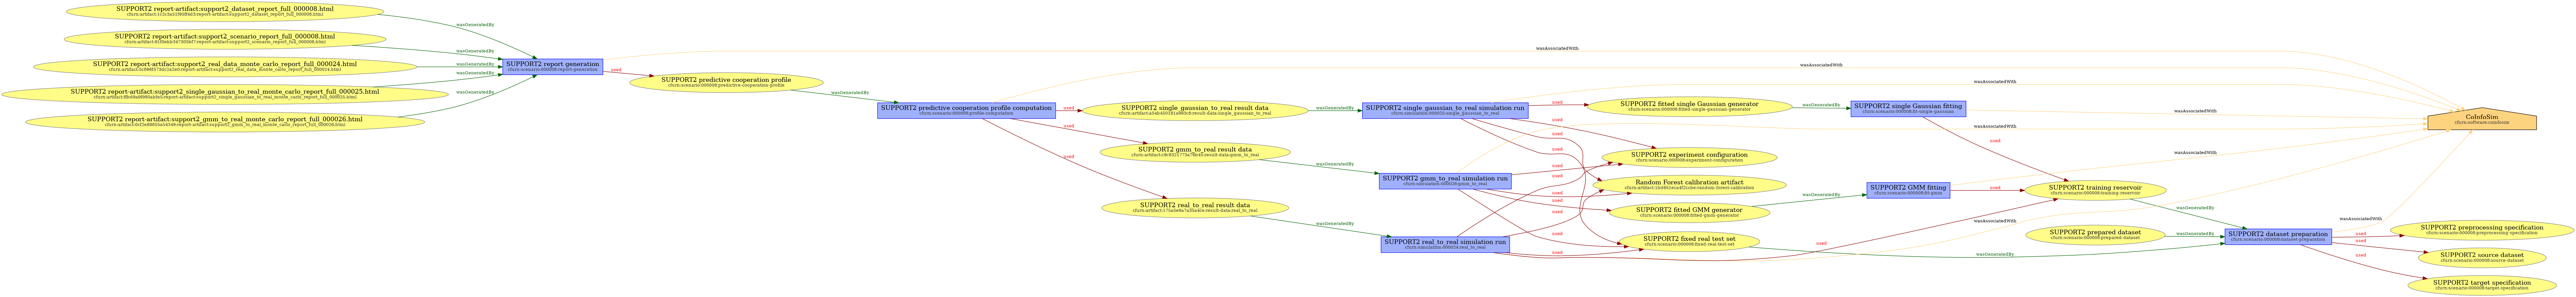
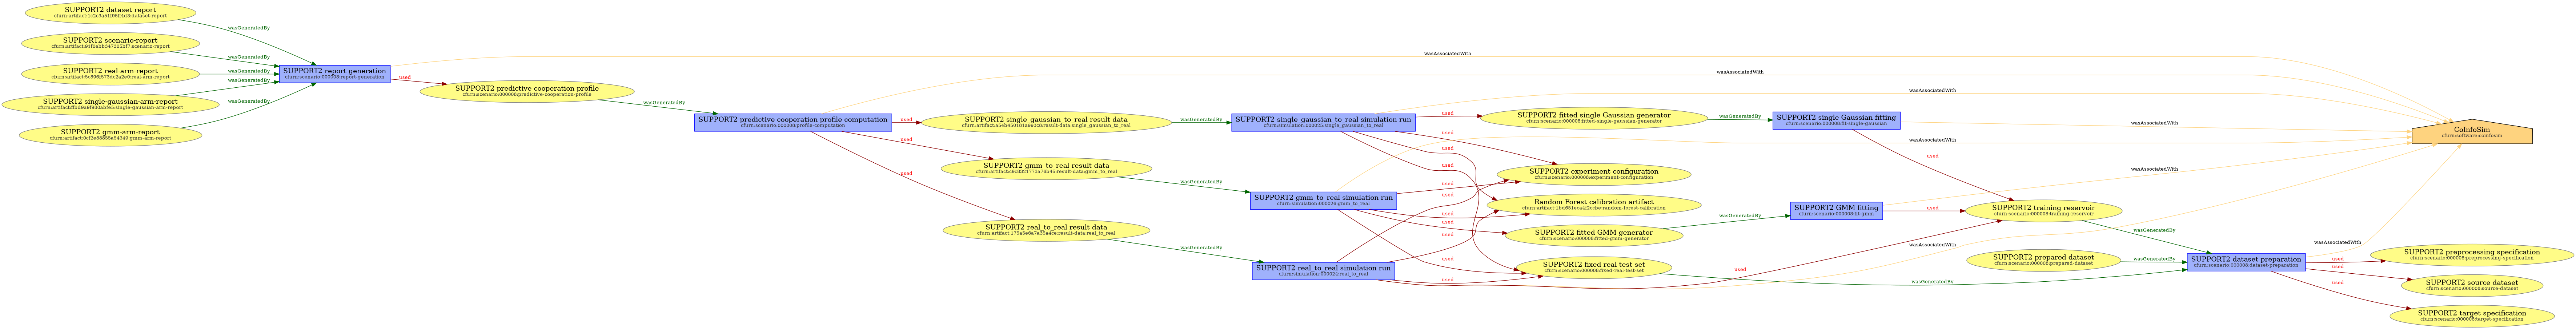
docs: center report provenance on W3C PROV graphs
Reorder chapters/04_datasets.tex's provenance section: open by foregrounding
W3C PROV/PROV-O, the Python prov library, ProvDocument, Entity/Activity/
SoftwareAgent, used/wasGeneratedBy/wasDerivedFrom/wasAssociatedWith,
prov_to_dot and Graphviz, and note the course-notebook alignment
(zavaleta/Fundamentos_DS, FCD_M1_4_Provenance.ipynb) without overstating it
as a formal requirement. Place the genuine Occupancy (000002) Graphviz
figure immediately after the opening, followed by a short PROV-relation
explanation, then the Air Quality (000005) and SUPPORT2 (000008) graphs
with dataset-specific interpretation (chronological split/temporal-leakage
control; complete-case cohort/joint stratification/RF calibration), then
the explicit TrainingReservoir-to-generator-fitting /
FixedRealTestSet-never-to-generator-fitting / FixedRealTestSet-to-all-arms
invariant, then a pointer to Appendix E. Removes "regenerated
scenario"/"profile recomputation" wording from the scientific narrative;
the manual TikZ diagram is no longer included as report evidence (kept as
an internal/conceptual asset per FIGURE_SOURCES.md). Also shortens
report-artifact PROV node labels in generate_scientific_provenance_figures.py
to the same short role vocabulary already used by the runtime evidence
collector (rather than embedding full report filenames), meaningfully
reducing the rendered graph width.

diff --git a/coinfosim-report-latex/chapters/04_datasets.tex b/coinfosim-report-latex/chapters/04_datasets.tex
@@ -77,6 +77,7 @@ Foram selecionados os cinco canais de resposta:
 A variável \texttt{C6H6(GT)}, obtida por analisador de referência, não é fornecida ao classificador; ela é usada somente para construir o alvo binário \texttt{benzene\_elevated}. Assim, o problema representa a tentativa de inferir uma condição definida por equipamento de referência a partir de sensores potencialmente mais simples. O limiar experimental não constitui limite sanitário ou regulatório.
 
 \subsection{Conjunto analítico, alvo e divisão cronológica}
+\label{sec:air-quality-split}
 
 O arquivo possui 9.357 linhas não vazias. O valor sentinela $-200$ é convertido em ausente, e são mantidas apenas as observações completas nos cinco canais e na referência de benzeno. O conjunto analítico resultante contém 8.991 linhas; 366 observações são descartadas, sem imputação.
 
@@ -143,6 +144,7 @@ Foram utilizados sete canais fisiológicos basais:
 Com sete canais, são avaliados 127 subconjuntos não vazios. O arquivo original contém 9.105 pacientes, sendo 4.840 negativos e 4.265 positivos para o alvo derivado. A análise usa casos completos nos sete canais, nas duas variáveis necessárias ao alvo e no grupo diagnóstico \texttt{dzgroup}, empregado somente na estratificação e no relatório. A coorte final possui 8.873 pacientes, com 4.711 negativos e 4.162 positivos.
 
 \subsection{Particionamento e padronização}
+\label{sec:support2-split}
 
 Foi construído um particionamento fixo 80/20 com semente 0 e estratificação conjunta por mortalidade em 180 dias e grupo diagnóstico. Os dados reais de treinamento contêm 7.098 pacientes, com 3.768 negativos e 3.330 positivos; o teste possui 1.775 pacientes, com 943 negativos e 832 positivos. Todos os 16 estratos conjuntos aparecem nas duas partições. Após o sorteio, as linhas são ordenadas pelo identificador, e os conjuntos são auditados por impressões digitais dos IDs.
 
@@ -281,30 +283,46 @@ o que torna a paralelização por processos uma condição prática para as exec
 \section{Proveniência e rastreabilidade experimental}
 \label{sec:provenance}
 
-A proveniência não é, neste trabalho, um registro acessório de execução: é o mecanismo que torna auditável a separação entre dados usados para parametrizar treinamento e geradores e dados reservados à avaliação, e que permite rastrear qualquer número reportado até o resultado bruto, a atividade computacional e a versão de software que o produziram. Por isso ela é tratada aqui como parte do desenho experimental, e não apenas como material de reprodutibilidade. O \CoInfoSim{} distingue duas camadas, com escopos e formatos diferentes.
-
-\subsection{Rastreabilidade experimental}
-
-Cada execução persiste, junto dos resultados, os metadados necessários para reconstruir e auditar o experimento: origem e hash SHA-256 do arquivo de dados bruto; definição do alvo e seleção do conjunto analítico elegível; impressão digital da partição treino/teste; parâmetros de padronização; parâmetros dos modelos geradores e critério de seleção do GMM; classificadores e hiperparâmetros resolvidos, incluindo o artefato de calibração do Random Forest; sementes e sua política de derivação; grade efetiva de $n$, número de replicações e motivo de parada por $n$; e os resultados brutos por replicação, compactados, que permitem regenerar relatórios e figuras sem repetir a simulação de Monte Carlo. Essa camada é o que possibilita, por exemplo, verificar que a padronização e o ajuste dos geradores de um cenário usaram exclusivamente o conjunto de treinamento correspondente.
-
-\subsection{Proveniência formal do artefato científico}
-
-Além da rastreabilidade experimental, cada regeneração de cenário emite um grafo de proveniência formal, compatível com o vocabulário do \emph{W3C PROV Ontology} (PROV-O) \cite{provo2013}: um \texttt{prov:Entity} para cada artefato de dados ou resultado, um \texttt{prov:Activity} para cada atividade computacional, e um único \texttt{prov:SoftwareAgent} --- o próprio \CoInfoSim{} --- associado às atividades. A granularidade é por cenário/braço, não por replicação: uma atividade de preparação de dataset, até duas atividades de ajuste de gerador, três atividades de simulação (uma por braço), uma atividade de recomputação do perfil e uma atividade de geração de relatório, ligadas pelas relações \texttt{prov:used}, \texttt{prov:wasGeneratedBy} e \texttt{prov:wasAssociatedWith}, conforme o mapeamento completo em \texttt{docs/semantics/provenance\_mapping.md}. A cadeia central, comum a todo cenário, é
-\begin{center}
-\texttt{SourceDataset} $\to$ \texttt{DatasetPreparation} $\to$ \texttt{PreparedDataset} $\to$ \{\texttt{TrainingReservoir}, \texttt{FixedRealTestSet}\} $\to$ \{ajuste dos geradores, três execuções de simulação\} $\to$ \texttt{ResultData} $\to$ \texttt{ProfileComputation} $\to$ \texttt{PredictiveCooperationProfile} $\to$ \texttt{ReportGeneration} $\to$ \texttt{ReportArtifact},
-\end{center}
-ilustrada, com os tipos e relações efetivamente emitidos pelo código atual, na Figura~\ref{fig:prov-profile-derivation}. O Apêndice~E formaliza essa camada em detalhe, incluindo a tabela completa de tipos PROV-O, os formatos de serialização emitidos (PROV-JSON, PROV-N, PROV-O/Turtle e, quando disponível, um grafo Graphviz) e os limites explícitos do que a exportação atual modela.
+A proveniência formal deste trabalho segue o padrão \emph{W3C PROV}/PROV-O~\cite{provo2013}: cada artefato de dado ou resultado é uma \texttt{prov:Entity}, cada atividade computacional é uma \texttt{prov:Activity}, e o próprio \CoInfoSim{} é o único \texttt{prov:SoftwareAgent}, associado a cada atividade por \texttt{prov:wasAssociatedWith}. As relações \texttt{prov:used}, \texttt{prov:wasGeneratedBy} e \texttt{prov:wasDerivedFrom} ligam essas entidades e atividades em um único \texttt{prov.model.ProvDocument} (biblioteca Python \texttt{prov}), construído por uma função canônica única (\texttt{build\_scenario\_prov\_document}) e renderizado com \texttt{prov.dot.prov\_to\_dot}/Graphviz: não há um segundo modelo de proveniência nem uma ilustração meramente conceitual dos vínculos --- o grafo da Figura~\ref{fig:prov-occupancy} é emitido diretamente a partir desse documento formal. Essa camada torna auditável a separação entre dados usados para parametrizar treinamento e geradores e dados reservados à avaliação, e permite rastrear qualquer número reportado até o resultado bruto, a atividade computacional e o artefato de software que o produziram. A implementação adota a mesma abordagem --- W3C PROV, biblioteca Python \texttt{prov}, \texttt{ProvDocument} e \texttt{prov\_to\_dot}/Graphviz --- apresentada no notebook de curso \texttt{FCD\_M1\_4\_Provenance.ipynb}, do repositório \texttt{zavaleta/Fundamentos\_DS}~\cite{zavaleta_fcd_provenance}.
 
 \begin{figure}[H]
   \centering
-  \caption{Grafo de proveniência experimental formal: do dataset de origem ao artefato de relatório}
-  \label{fig:prov-profile-derivation}
-  \includegraphics[width=\textwidth]{figures/provenance/prov_profile_derivation.pdf}
-  \sourcebelow{elaboração própria; cadeia central simplificada, com os mesmos tipos e relações do grafo real (\texttt{provenance.provn}) emitido pelo código atual; ver Apêndice~E}
-  \notailustracao{A figura seleciona a cadeia central da proveniência \emph{experimental} e omite metadados de regeneração de relatório sem relevância científica direta (revisão de código, ambiente de execução); a lista completa de entidades e atividades do cenário está no Apêndice~E}
+  \caption{Proveniência formal (W3C PROV) do cenário Occupancy (000002), gerada a partir do \texttt{ProvDocument} canônico}
+  \label{fig:prov-occupancy}
+  \includegraphics[width=\textwidth]{figures/provenance/provenance_occupancy_000002.pdf}
+  \sourcebelow{elaboração própria; grafo Graphviz emitido por \texttt{prov\_to\_dot} a partir do \texttt{ProvDocument} do cenário 000002 (projeção de exibição científica; ver Apêndice~E)}
+  \notailustracao{A projeção de exibição omite apenas metadados de engenharia sem leitura científica direta (revisão de código, ambiente de execução); o documento PROV completo, incluindo esses metadados, permanece persistido em \texttt{provenance.provjson}. Por ser um gráfico vetorial, cada rótulo pode ser ampliado individualmente; a tabela completa de papéis e serializações está no Apêndice~E}
 \end{figure}
 
-O grafo formal, em conjunto com os metadados de rastreabilidade experimental, torna auditável --- para qualquer cenário regenerado --- que os dados usados para parametrizar treinamento e geradores (\texttt{TrainingReservoir}) e os dados reservados à avaliação (\texttt{FixedRealTestSet}) permaneceram entidades distintas ao longo de todo o pipeline, e que o mesmo conjunto de teste foi \texttt{prov:used} pelos três braços. Essa auditabilidade não prova a ausência absoluta de qualquer vazamento de informação; ela documenta e torna verificáveis os controles de separação de treino e teste descritos na seção anterior, testados automaticamente no código (\texttt{tests/test\_provenance\_model.py}).
+Nesse grafo, uma \texttt{prov:Entity} representa um dado ou resultado (por exemplo, \texttt{SourceDataset}, \texttt{TrainingReservoir}, \texttt{FixedRealTestSet}, \texttt{ResultData}, \texttt{PredictiveCooperationProfile}); uma \texttt{prov:Activity} representa uma computação (\texttt{DatasetPreparation}, o ajuste de cada gerador, cada execução de simulação, a computação do perfil, a geração do relatório); e o \texttt{prov:SoftwareAgent} único é associado a cada atividade por \texttt{prov:wasAssociatedWith}. Uma atividade \texttt{prov:used} as entidades que consome como insumo e \texttt{prov:wasGeneratedBy} as entidades que produz; quando um resultado deriva de outro sem uma atividade computacional própria, a relação é \texttt{prov:wasDerivedFrom}. A granularidade é por cenário/braço, não por replicação Monte Carlo.
+
+O mesmo grafo formal é emitido para os outros dois estudos de caso. Na Air Quality (cenário 000005, Figura~\ref{fig:prov-air-quality}), a \texttt{TargetSpecification} e a \texttt{PreprocessingSpecification} correspondem à divisão cronológica 80/20 e ao limiar do alvo definido exclusivamente no percentil 75 de \texttt{C6H6(GT)} do conjunto de treinamento (Seção~\ref{sec:air-quality-split}), reforçando o controle contra vazamento temporal: nenhuma observação futura participa da parametrização do alvo, da padronização ou do ajuste dos geradores.
+
+\begin{figure}[H]
+  \centering
+  \caption{Proveniência formal (W3C PROV) do cenário Air Quality (000005)}
+  \label{fig:prov-air-quality}
+  \includegraphics[width=\textwidth]{figures/provenance/provenance_air_quality_000005.pdf}
+  \sourcebelow{elaboração própria; grafo Graphviz emitido por \texttt{prov\_to\_dot} a partir do \texttt{ProvDocument} do cenário 000005 (projeção de exibição científica; ver Apêndice~E)}
+\end{figure}
+
+No SUPPORT2 (cenário 000008, Figura~\ref{fig:prov-support2}), o mesmo grafo evidencia a coorte analítica de casos completos, a estratificação conjunta por alvo e \texttt{dzgroup} na partição 80/20 (Seção~\ref{sec:support2-split}), a padronização ajustada somente no treinamento, e o \texttt{RandomForestCalibrationArtifact}, usado pelas três atividades de simulação.
+
+\begin{figure}[H]
+  \centering
+  \caption{Proveniência formal (W3C PROV) do cenário SUPPORT2 (000008)}
+  \label{fig:prov-support2}
+  \includegraphics[width=\textwidth]{figures/provenance/provenance_support2_000008.pdf}
+  \sourcebelow{elaboração própria; grafo Graphviz emitido por \texttt{prov\_to\_dot} a partir do \texttt{ProvDocument} do cenário 000008 (projeção de exibição científica; ver Apêndice~E)}
+\end{figure}
+
+Um invariante é comum aos três cenários e fica explícito nos três grafos: a \texttt{TrainingReservoir} alimenta o ajuste dos geradores (\texttt{FitSingleGaussian}, \texttt{FitGMM}), e o \texttt{FixedRealTestSet} nunca é \texttt{prov:used} por essas atividades de ajuste; o mesmo \texttt{FixedRealTestSet}, por sua vez, é \texttt{prov:used} pelas três atividades de simulação (real, Gaussiana única e GMM). Essa auditabilidade não prova a ausência absoluta de qualquer vazamento de informação; ela documenta e torna verificáveis os controles de separação de treino e teste descritos na seção anterior, testados automaticamente no código (\texttt{tests/test\_provenance\_model.py}).
+
+\subsection{Rastreabilidade experimental}
+
+Cada cenário persiste, junto dos resultados, os metadados necessários para reconstruir e auditar o experimento: origem e hash SHA-256 do arquivo de dados bruto; definição do alvo e seleção do conjunto analítico elegível; impressão digital da partição treino/teste; parâmetros de padronização; parâmetros dos modelos geradores e critério de seleção do GMM; classificadores e hiperparâmetros resolvidos, incluindo o artefato de calibração do Random Forest; sementes e sua política de derivação; grade efetiva de $n$, número de replicações e motivo de parada por $n$; e os resultados brutos por replicação, compactados, que permitem gerar relatórios e figuras sem repetir a simulação de Monte Carlo. Essa camada é o que possibilita, por exemplo, verificar que a padronização e o ajuste dos geradores de um cenário usaram exclusivamente o conjunto de treinamento correspondente.
+
+O Apêndice~E detalha essa camada em profundidade: a tabela completa de tipos PROV-O emitidos, os formatos de serialização (PROV-JSON, PROV-N, PROV-O/Turtle e, quando \texttt{dot} está disponível no ambiente, o grafo Graphviz em PNG/PDF), a tabela completa de rastreabilidade por cenário e os limites explícitos do que a exportação atual modela.
 
 \begin{sloppypar}
 O vocabulário semântico subjacente --- termos como \texttt{PredictiveCooperationProfile}, \texttt{ReversalMatrix} ou \texttt{WinnerAgreement} ---, cada um com um identificador estável e rótulos em português e inglês, é formalizado em uma pequena ontologia OWL~2 que especializa a PROV-O (\texttt{ontology/coinfosim.owl.ttl}). Essa formalização declara uma taxonomia de classes e suas relações com PROV-O, mas não implementa raciocínio automático nem opera sobre um \emph{triple store}: não deve ser lida como uma ontologia de domínio completa no sentido de uma base de conhecimento com inferência, e sim como o vocabulário canônico do projeto, expresso em uma sintaxe formal auditável.

diff --git a/coinfosim-report-latex/scripts/generate_scientific_provenance_figures.py b/coinfosim-report-latex/scripts/generate_scientific_provenance_figures.py
@@ -115,6 +115,26 @@ def _dataset_metadata(report_data: Mapping[str, Any], scenario_json: Mapping[str
     return {"name": name}
 
 
+# Same short role vocabulary already used by the runtime evidence collector
+# in coinfosim.scenarios.dataset_anchored_runner -- reused here (rather than
+# embedding full report filenames) so PROV node labels stay concise.
+_REPORT_ROLE_PATTERNS = (
+    ("_scenario_report_", "scenario-report"),
+    ("_dataset_report_", "dataset-report"),
+    ("_real_data_monte_carlo_report_", "real-arm-report"),
+    ("_single_gaussian_to_real_monte_carlo_report_", "single-gaussian-arm-report"),
+    ("_gmm_to_real_monte_carlo_report_", "gmm-arm-report"),
+)
+
+
+def _report_artifact_role(path: str) -> str:
+    name = Path(path).name
+    for pattern, role in _REPORT_ROLE_PATTERNS:
+        if pattern in name:
+            return role
+    return "report-artifact"
+
+
 def _report_artifact_evidence(
     manifest: Mapping[str, Any], repo_root: Path
 ) -> list[ArtifactEvidence]:
@@ -124,7 +144,7 @@ def _report_artifact_evidence(
             ArtifactEvidence(
                 path=str(path),
                 sha256=str(sha256),
-                role=f"report-artifact:{Path(path).name}",
+                role=_report_artifact_role(path),
             )
         )
     return artifacts

diff --git a/coinfosim-report-latex/figures/FIGURE_SOURCES.md b/coinfosim-report-latex/figures/FIGURE_SOURCES.md
@@ -125,9 +125,14 @@ referência real ao longo da grade amostral.
 
 | Destino | Fonte | Método |
 |---|---|---|
-| `provenance/prov_profile_derivation.pdf` (fonte: `provenance/src/prov_profile_derivation.tex`) | `docs/semantics/provenance_mapping.md` e `output/reports/scenarios/000008_support2_baseline_full/provenance.provn` regenerado (cenário SUPPORT2 000008, commit `aa682fd4`) | diagrama TikZ construído manualmente a partir do grafo PROV-N real; nós, tipos e relações (`used`, `wasGeneratedBy`, `wasDerivedFrom`, `wasAssociatedWith`) correspondem exatamente aos emitidos pelo código para esse cenário, com seleção da cadeia central e omissão apenas de nós redundantes (as três atividades de simulação por braço, colapsadas em um único nó `ResultData`, e os quatro artefatos de relatório, colapsados em `ReportArtifact`) |
+| `provenance/provenance_occupancy_000002.pdf`/`.png` | `output/reports/scenarios/000002_occupancy_baseline_full/{scenario.json,semantic_manifest.json}` e resultados persistidos das simulações 000006--000008 | gerado por `coinfosim-report-latex/scripts/generate_scientific_provenance_figures.py`: evidência persistida normalizada em `ProvenanceEvidence` (`collect_persisted_provenance_evidence`), projeção não mutante (`dataclasses.replace`) que limpa somente os campos de engenharia (revisão de código, ambiente de execução, commit de recuperação), `build_scenario_prov_document` canônico, renderizado com `prov.dot.prov_to_dot`/Graphviz |
+| `provenance/provenance_air_quality_000005.pdf`/`.png` | `output/reports/scenarios/000005_air_quality_baseline_full/{scenario.json,semantic_manifest.json}` e resultados persistidos das simulações 000015--000017 | idem, cenário 000005 |
+| `provenance/provenance_support2_000008.pdf`/`.png` | `output/reports/scenarios/000008_support2_baseline_full/{scenario.json,semantic_manifest.json}` e resultados persistidos das simulações 000024--000026 | idem, cenário 000008 |
+| `provenance/prov_profile_derivation.pdf` (fonte: `provenance/src/prov_profile_derivation.tex`) | `docs/semantics/provenance_mapping.md` e `output/reports/scenarios/000008_support2_baseline_full/provenance.provn` regenerado (cenário SUPPORT2 000008, commit `aa682fd4`) | diagrama TikZ construído manualmente a partir do grafo PROV-N real; **não é mais usado como evidência formal no corpo do relatório** (substituído pelos três grafos Graphviz genuínos acima) e mantido apenas como material conceitual/interno; nós, tipos e relações (`used`, `wasGeneratedBy`, `wasDerivedFrom`, `wasAssociatedWith`) correspondem exatamente aos emitidos pelo código para esse cenário, com seleção da cadeia central e omissão apenas de nós redundantes (as três atividades de simulação por braço, colapsadas em um único nó `ResultData`, e os quatro artefatos de relatório, colapsados em `ReportArtifact`) |
 
-Compilação: `xelatex prov_profile_derivation.tex` a partir de `provenance/src/`, reutilizando `figures/conceptual/src/preamble_diagrams.tex`; determinística, sem dependência de Graphviz.
+Compilação dos grafos Graphviz: `python coinfosim-report-latex/scripts/generate_scientific_provenance_figures.py`, a partir do ambiente do projeto (requer o executável `dot`).
+
+Compilação do diagrama TikZ conceitual: `xelatex prov_profile_derivation.tex` a partir de `provenance/src/`, reutilizando `figures/conceptual/src/preamble_diagrams.tex`; determinística, sem dependência de Graphviz.
 
 ## Demais arquivos em figures/
 